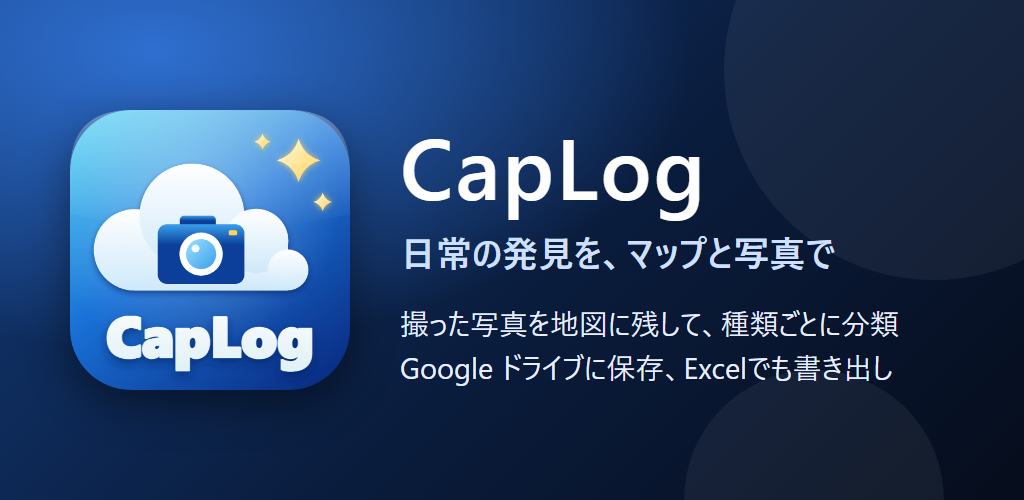
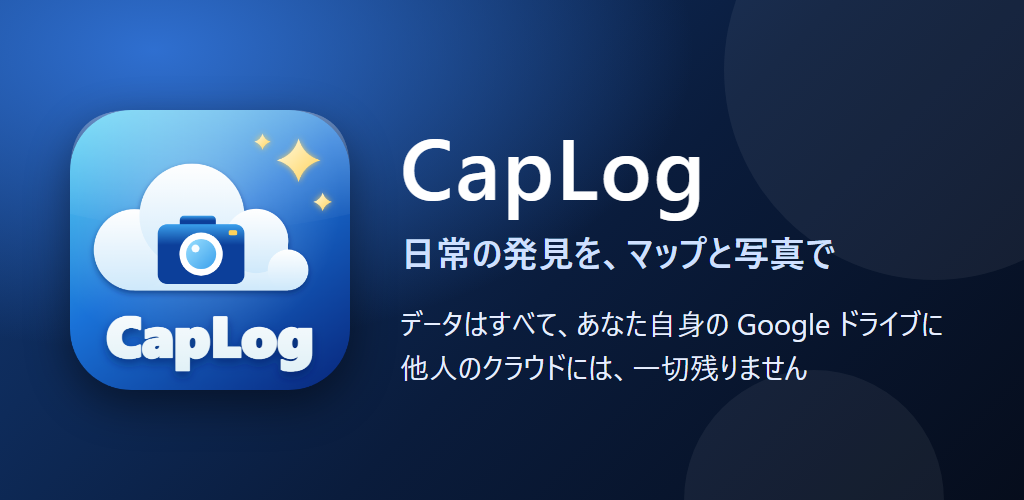
説明に「データはすべて自分の Google ドライブだけに保存される」特長を追加

Changed region(s): [[0.375, 0.6, 0.9062, 0.78]]

diff --git a/android/store/feature.html b/android/store/feature.html
@@ -13,5 +13,5 @@ p{margin:26px 0 0;font-size:29px;line-height:1.5;color:#e6eeff}
  <div class="dot" style="width:420px;height:420px;right:-120px;top:-140px"></div>
  <div class="dot" style="width:260px;height:260px;right:80px;bottom:-130px"></div>
  <img src="icon-512.png">
- <div class="t"><h1>CapLog</h1><h2>日常の発見を、マップと写真で</h2><p>撮った写真を地図に残して、種類ごとに分類<br>Google ドライブに保存、Excelでも書き出し</p></div>
+ <div class="t"><h1>CapLog</h1><h2>日常の発見を、マップと写真で</h2><p>データはすべて、あなた自身の Google ドライブに<br>他人のクラウドには、一切残りません</p></div>
 </div>

diff --git a/index.html b/index.html
@@ -6,7 +6,7 @@
     <title>CapLog</title>
     <meta
       name="description"
-      content="日常の発見をマップと写真で分類して残す"
+      content="日常の発見を、マップと写真で記録。データはすべて自分の Google ドライブに保存され、他人のクラウドには残りません"
     />
     <link rel="preconnect" href="https://fonts.googleapis.com" />
     <link rel="preconnect" href="https://fonts.gstatic.com" crossorigin />

diff --git a/android/store/listing-ja.md b/android/store/listing-ja.md
@@ -11,10 +11,17 @@ Play Console にそのまま貼り付けて使います。
 - ウェブサイト: https://caplog.doitmyself.net/
 
 ## 簡単な説明（80文字まで）
-日常の発見を、写真と地図で記録。種類ごとに分類し、Google ドライブに保存できます。
+日常の発見を写真と地図で記録。写真もデータも、すべて自分の Google ドライブに保存。他人のクラウドには残りません。
 
 ## 詳しい説明（4000文字まで）
 CapLog は、日常で見つけたものを、写真と地図でかんたんに残すアプリです。
+
+■ 大きな特長: データは、すべてあなたの Google ドライブに
+・写真も記録も、ご自身の Google アカウントのドライブ（「CapLog」フォルダー）に保存されます。
+・開発者や他社のサーバー・クラウドには、データを送信も保存もしません。ほかの人のクラウドに、あなたのデータが残ることはありません。
+・データはいつでも自分で開いて、コピー・バックアップ・削除ができます。アプリを消しても、ドライブのデータは残ります。
+・アプリが見られるのは、アプリ自身が作ったファイルだけです。ドライブのほかのファイルは見えません。
+・端末を買い替えても、同じ Google アカウントでログインすれば、記録を引き継げます。
 
 ■ できること
 ・その場で撮影、またはアルバムの写真から記録（写真の位置情報も自動で使えます）
